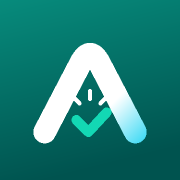
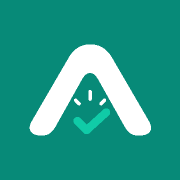
design(brand): trace Concept C silhouette in flat app colors and simplify splash

diff --git a/index.html b/index.html
@@ -14,26 +14,21 @@
     <link href="https://fonts.googleapis.com/css2?family=Noto+Sans+Thai:wght@400;500;600;700;800&amp;family=Oxanium:wght@800&amp;display=swap" rel="stylesheet" />
     <title>Attendance — ระบบบันทึกเวลาทำงาน</title>
     <style>
-      #startup-splash{position:fixed;inset:0;z-index:10000;display:grid;place-items:center;overflow:hidden;background:#fff;color:#073b39;font-family:system-ui,-apple-system,sans-serif;isolation:isolate}
-      .startup-brand{position:relative;z-index:1;display:grid;justify-items:center;gap:6px;transform:translateY(-7vh)}
-      .startup-brand svg{width:clamp(108px,34vw,160px);height:auto;display:block}
-      .startup-brand strong{font-size:clamp(28px,7vw,38px);font-weight:750;letter-spacing:-.055em;line-height:1.2}
-      .startup-waves{position:absolute;bottom:0;left:0;width:100%;height:32%;pointer-events:none}
-      .startup-dots{position:absolute;bottom:max(6%,calc(env(safe-area-inset-bottom,0px) + 20px));display:flex;gap:8px}
-      .startup-dots i{display:block;width:7px;height:7px;border-radius:50%;background:#a5e7df;animation:startup-dot 1.05s ease-in-out infinite}
+      #startup-splash{position:fixed;inset:0;z-index:10000;display:grid;place-items:center;overflow:hidden;background:#fff;color:#172d3a;font-family:'Noto Sans Thai',system-ui,-apple-system,sans-serif;isolation:isolate}
+      .startup-brand{position:relative;z-index:1;display:grid;justify-items:center;gap:16px;transform:translateY(-3vh)}
+      .startup-brand svg{width:clamp(140px,48vw,190px);height:auto;display:block}
+      .startup-brand strong{font-size:clamp(29px,8vw,36px);font-weight:800;letter-spacing:-.04em;line-height:1.2}
+
+      .startup-dots{position:absolute;bottom:max(11%,calc(env(safe-area-inset-bottom,0px) + 24px));display:flex;gap:8px}
+      .startup-dots i{display:block;width:7px;height:7px;border-radius:50%;background:#D5EAE3;animation:startup-dot 1.05s ease-in-out infinite}
       .startup-dots i:nth-child(2){animation-delay:.15s}.startup-dots i:nth-child(3){animation-delay:.3s}
-      @keyframes startup-dot{0%,70%,100%{background:#a5e7df}35%{background:#0b7a6b}}
-      @media(prefers-reduced-motion:reduce){.startup-dots i{animation:none}.startup-dots i:nth-child(2){background:#0b7a6b}}
+      @keyframes startup-dot{0%,70%,100%{background:#D5EAE3}35%{background:#078A78}}
+      @media(prefers-reduced-motion:reduce){.startup-dots i{animation:none}.startup-dots i:nth-child(2){background:#078A78}}
     </style>
   </head>
   <body>
     <div id="startup-splash" role="status" aria-label="กำลังเปิด Attendance">
-      <div class="startup-brand"><svg aria-hidden="true" xmlns="http://www.w3.org/2000/svg" viewBox="0 0 100 100"><defs><linearGradient id="a" x1="0" y1="0" x2="1" y2="1"><stop offset="0" stop-color="#008A7B"/><stop offset=".66" stop-color="#08796C"/><stop offset="1" stop-color="#39D9F4"/></linearGradient></defs><path d="M20 79 L44 33 Q50 22 56 33 L80 79" fill="none" stroke="url(#a)" stroke-width="15" stroke-linecap="round" stroke-linejoin="round"/><path d="M40 57l3 3m7-8v5m10 0-3 3" fill="none" stroke="#075C57" stroke-width="2.8" stroke-linecap="round"/><path d="m41 71 8 8 12-13" fill="none" stroke="#13D8B4" stroke-width="6.5" stroke-linecap="round" stroke-linejoin="round"/></svg><strong>Attendance</strong></div>
-      <svg class="startup-waves" viewBox="0 0 400 240" preserveAspectRatio="none" aria-hidden="true">
-        <defs><linearGradient id="sw1" x1="0" y1="0" x2="0" y2="1"><stop stop-color="#70E3F0" stop-opacity=".65"/><stop offset="1" stop-color="#DDF9F7" stop-opacity=".25"/></linearGradient><linearGradient id="sw2" x1="0" y1="0" x2="0" y2="1"><stop stop-color="#19BDAE" stop-opacity=".85"/><stop offset="1" stop-color="#E8FCF9" stop-opacity=".20"/></linearGradient></defs>
-        <path d="M0 142C152 196 225 48 400 0V240H0Z" fill="url(#sw1)"/>
-        <path d="M0 176C132 191 245 76 400 88V240H0Z" fill="url(#sw2)"/>
-      </svg>
+      <div class="startup-brand"><svg aria-hidden="true" xmlns="http://www.w3.org/2000/svg" viewBox="-2 -1 214 161"><path d="M 18 158 C 3 158 -5 148 4 133 L 68 23 C 77 8 89 0 105 0 C 122 0 134 8 143 23 L 207 133 C 216 148 208 158 193 158 L 187 158 C 177 158 171 153 165 143 L 119 61 C 115 54 111 50 105 50 C 99 50 95 54 91 61 L 45 143 C 39 153 33 158 23 158 Z" fill="#078A78"/><path d="M 80 97 L 86 103 M 105 82 L 105 95 M 130 97 L 124 103" stroke="#086259" stroke-width="6" stroke-linecap="round" fill="none"/><path d="M 83 133 L 99 149 L 133 118" stroke="#10CBA7" stroke-width="14" stroke-linecap="round" stroke-linejoin="round" fill="none"/></svg><strong>Attendance</strong></div>
       <div class="startup-dots" aria-hidden="true"><i></i><i></i><i></i></div>
     </div>
     <div id="root"></div>
